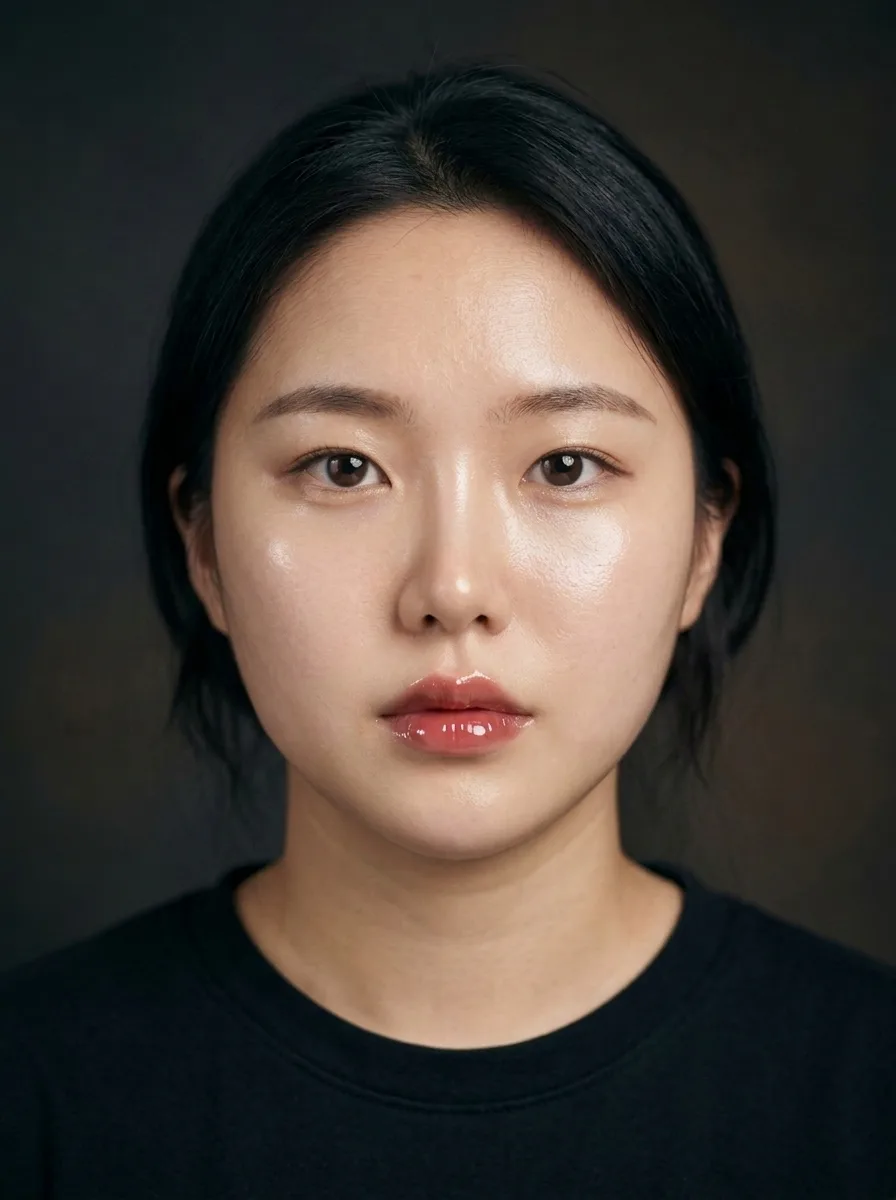
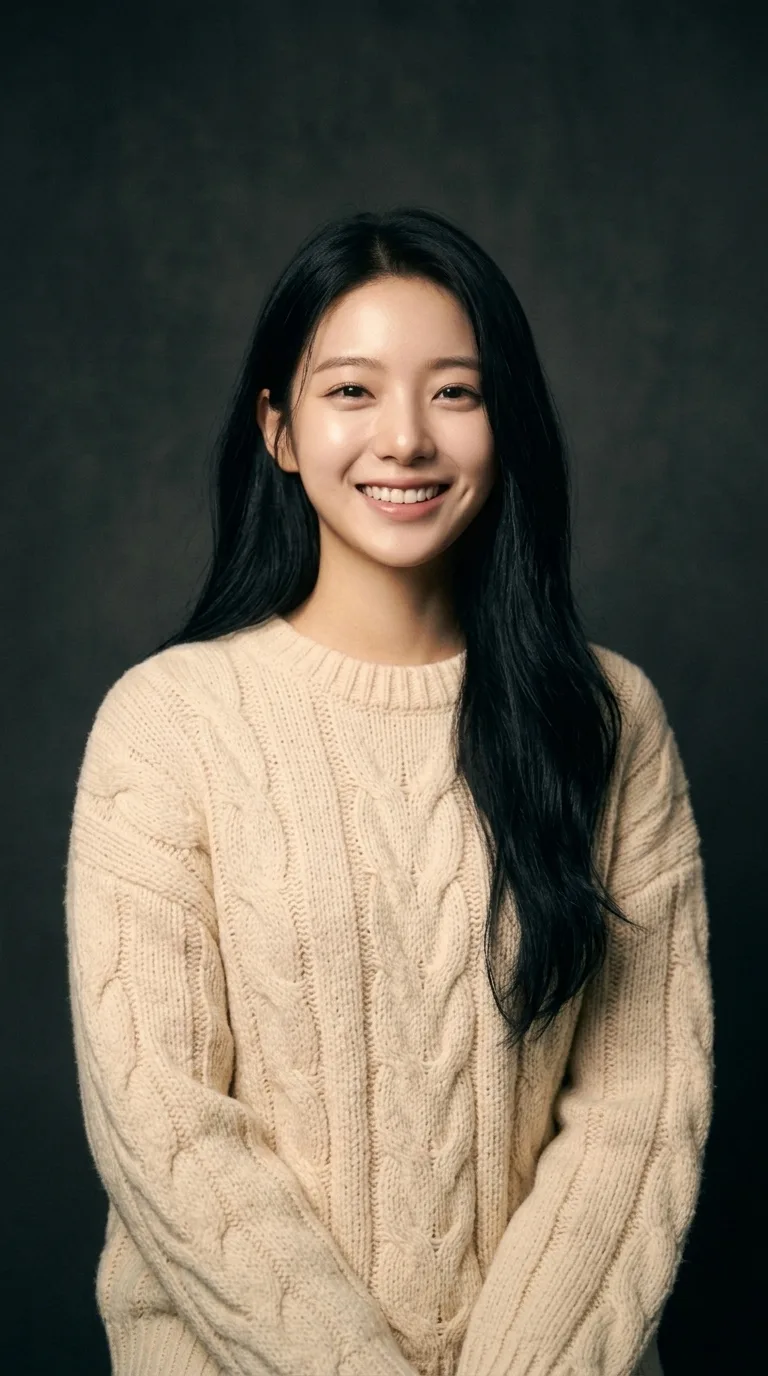
fix(services): facePreview 전후 모델을 앱/홍보웹 실제 이미지로 교체
사용자 "앱의 실제 모델과 다름" — 잘못된 쌍(editorial/ba-* 페이월 데모, 검정티셔츠)을
썼음. 홍보웹(facepreview.vercel.app) 라이브가 실제 쓰는 /images/before·after.jpg
(=앱 홈 face-1 쌍, 크림 스웨터·같은 의상/헤어/배경)로 교체.
- before/after.webp 재생성(768×1376, 홍보웹 원본 web/public/images 변환)
- focusY 34 / afterFocusY 28 — 홍보웹 index.astro(before center 34% / after 28%)와 동일
  세로 초점 보정으로 같은 인물의 머리 위치차를 맞춰 슬라이더 경계 정렬.

빌드 그린. 다중 뷰포트 실측 — 홍보웹과 동일 모델·정렬 확인.

diff --git a/src/data/services.ts b/src/data/services.ts
@@ -1347,10 +1347,11 @@ export const SERVICES: AppService[] = [
         after: facepreviewAfter,
         beforeLabel: '수술 전',
         afterLabel: 'AI 예상 결과',
-        // 앱 BeforeAfterSlider 시그니처(골드 디바이더 드래그)를 그대로 재현.
+        // 앱·홍보웹 BeforeAfterSlider 시그니처(골드 디바이더 드래그)를 그대로 재현.
         layout: 'slider',
-        // 앱 home과 동일한 세로 초점 보정 — 독립 생성 쌍의 얼굴 위치차를 맞춰 같은 인물로 겹침.
-        focusY: 32,
+        // 홍보웹(index.astro)과 동일한 세로 초점 보정 — before 34% / after 28%로
+        // 같은 인물(face-1 쌍)의 머리 위치차를 맞춰 슬라이더 경계에서 자연스럽게 겹침.
+        focusY: 34,
         afterFocusY: 28,
       },
       disclaimer:
